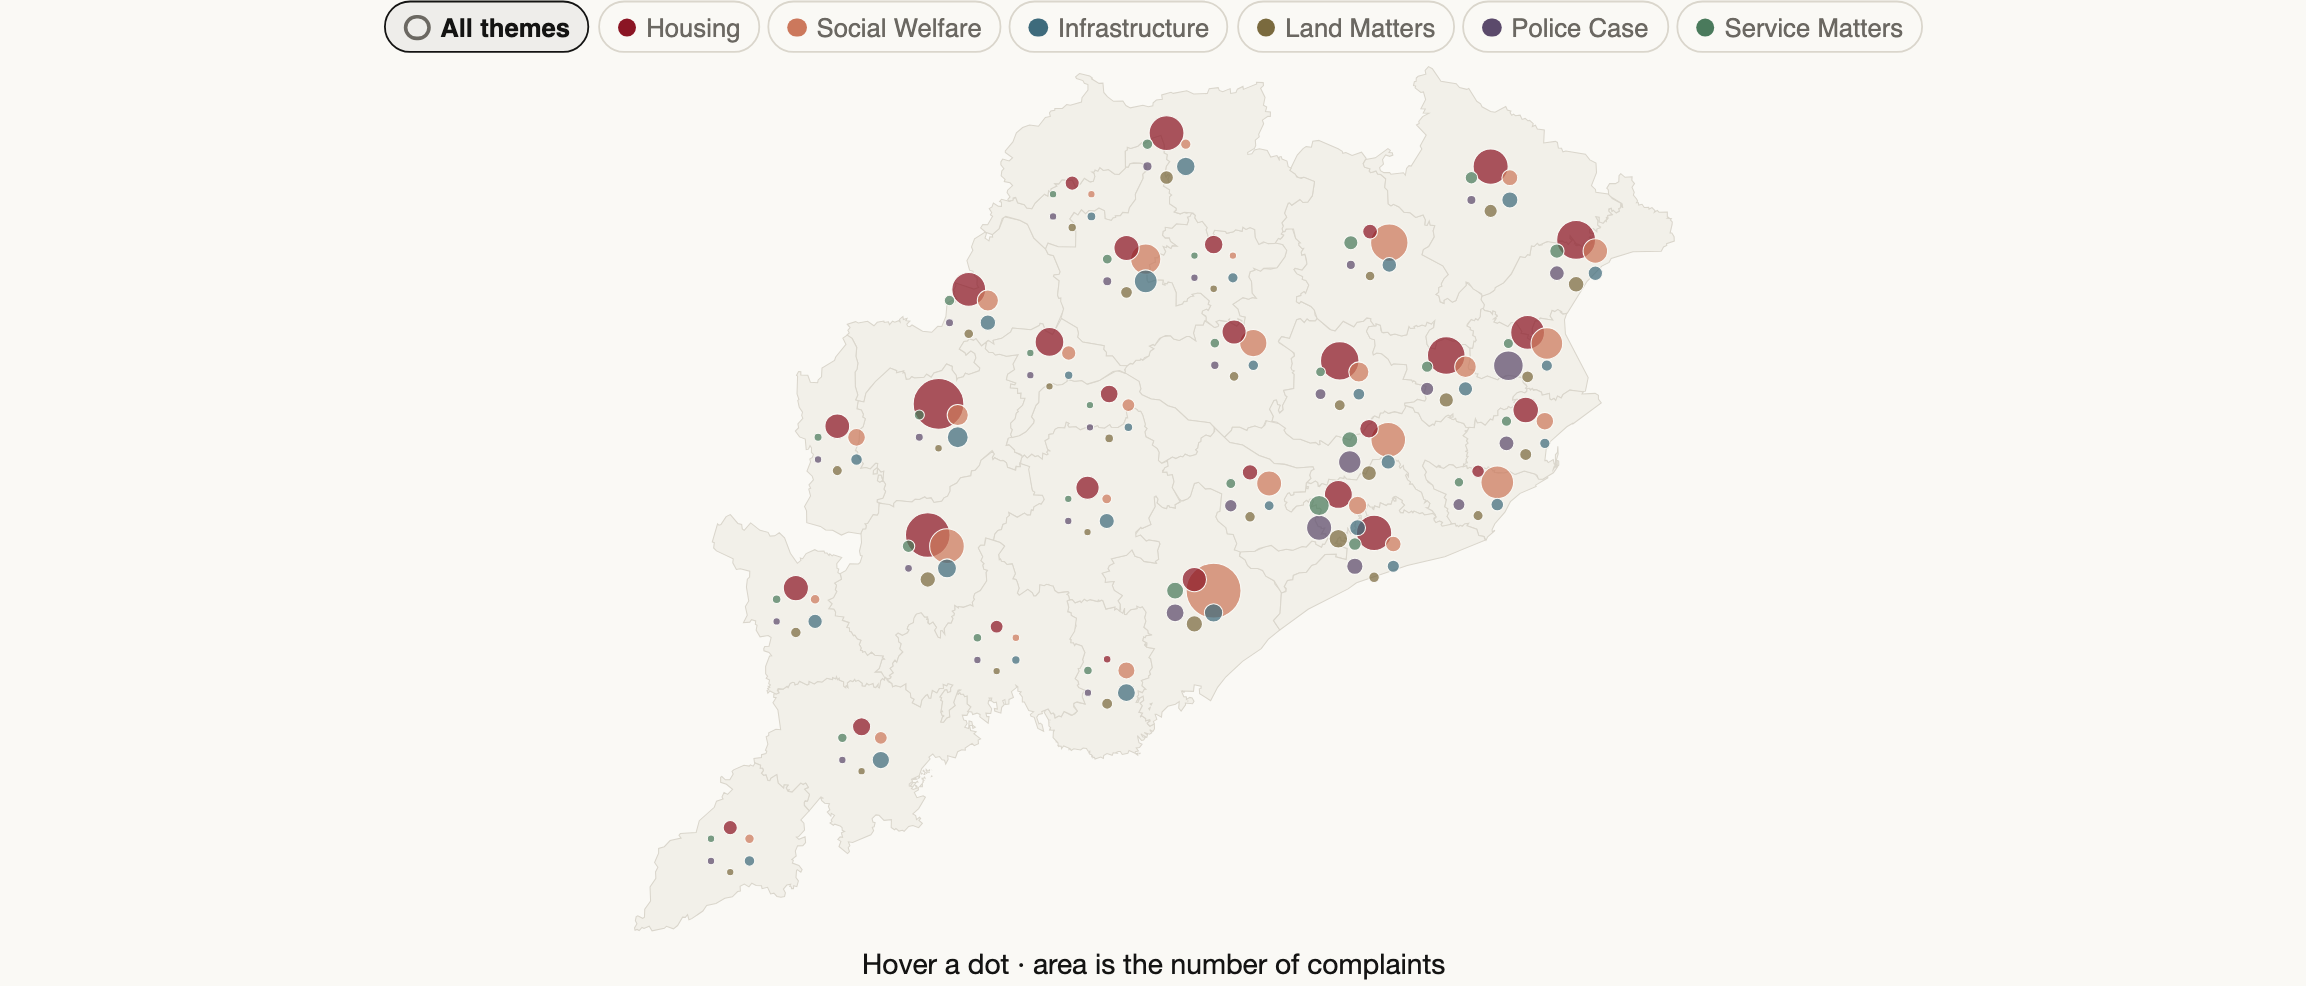
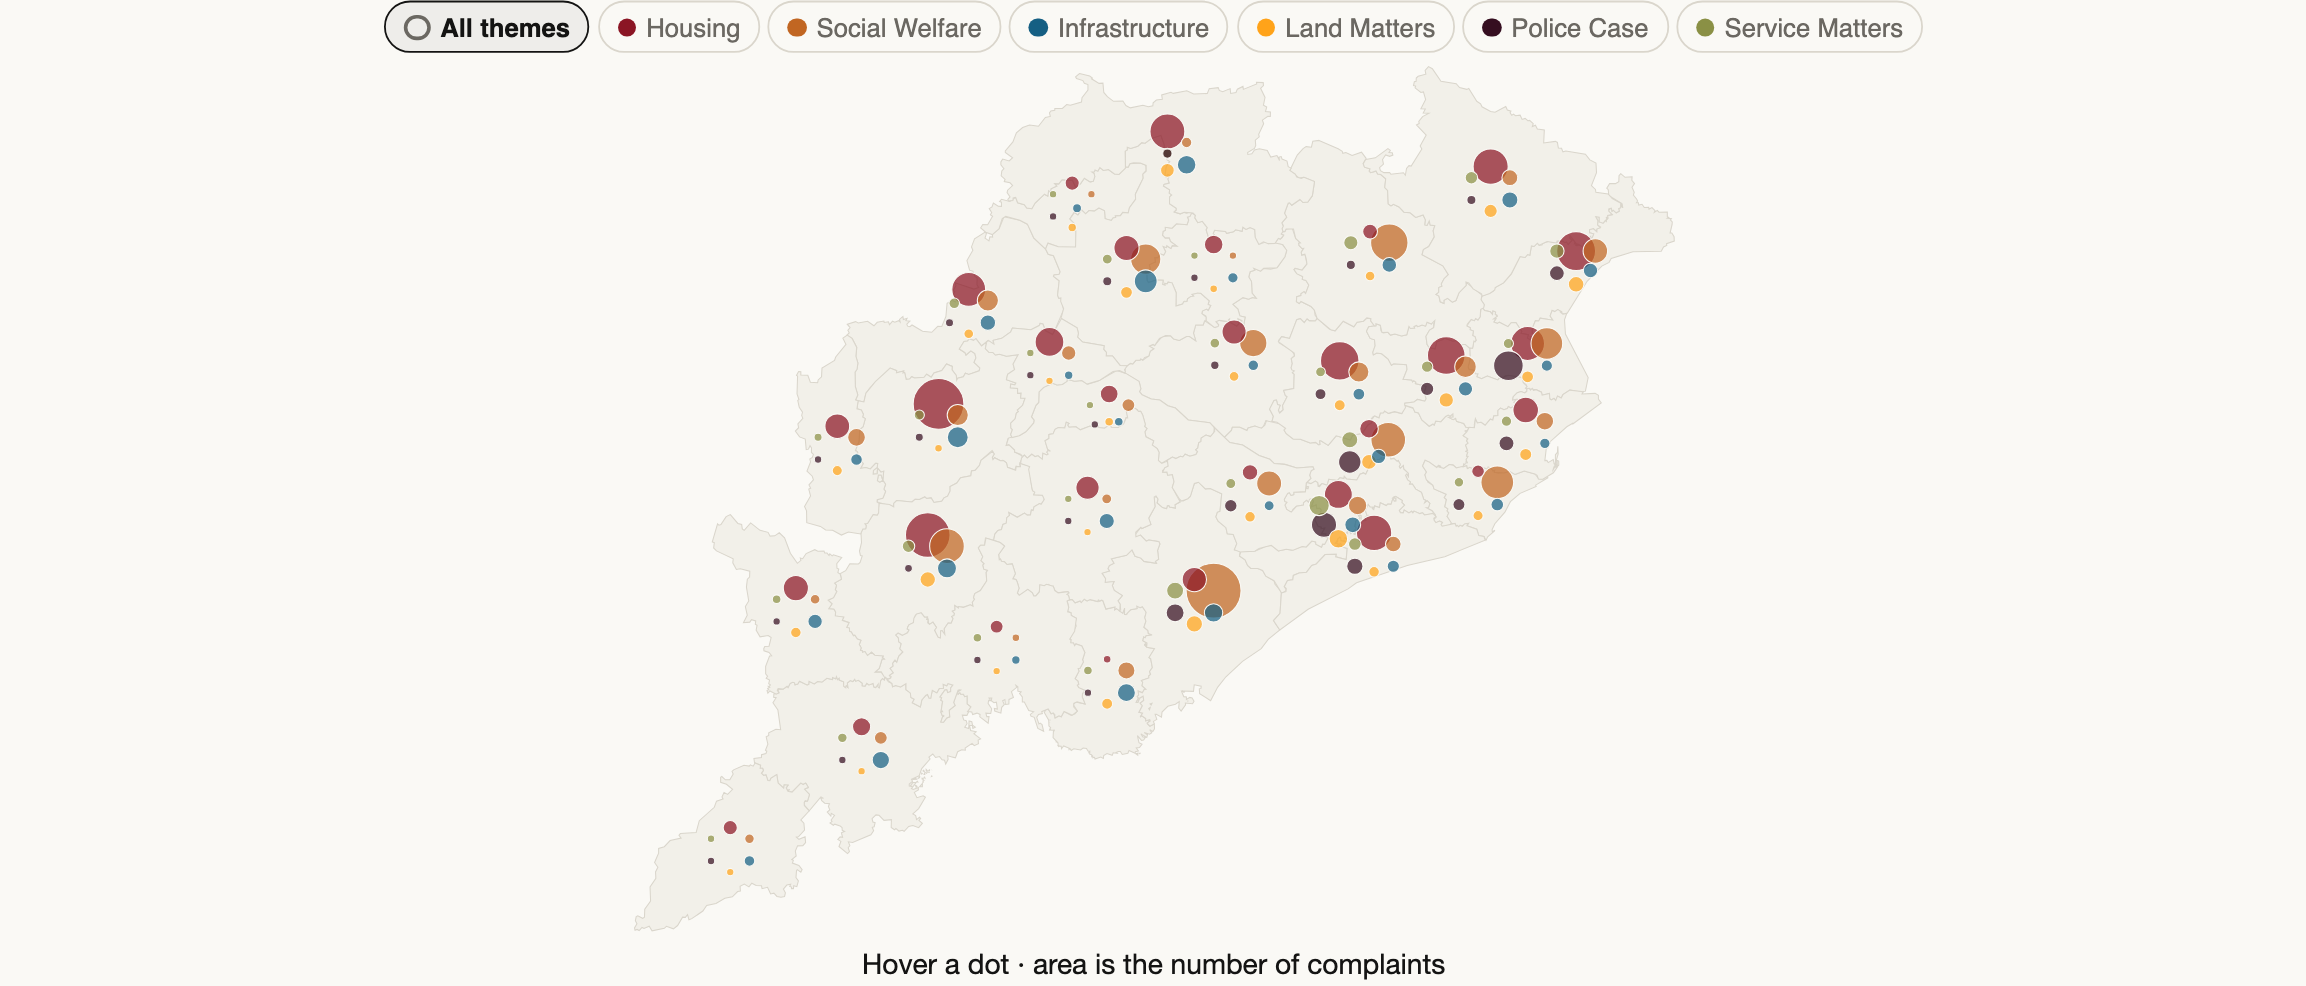
fix(deck): keep hotspot dots within district boundaries
Constrain each thematic marker to the corresponding simplified district polygon so neither the interactive map nor its static fallback attributes complaint volume to a neighbouring district. Source the chart palette from the governed DPIC branding module and use the project environment for deterministic regeneration.

diff --git a/scripts/build_deck_map.py b/scripts/build_deck_map.py
@@ -15,15 +15,16 @@ A DOT MAP, NOT A CHOROPLETH. Shading a whole district by volume answers "which
 district is big", because a populous district files more of everything. Dots
 carry two channels instead of one: colour is the theme and area is the count, so
 water and housing are separable at a glance and a district's mix is visible
-rather than averaged away. Each district gets one dot per theme, arranged on a
-small ring around its centroid.
+rather than averaged away. Each district gets one dot per theme, arranged near
+its centroid with every dot centre constrained to the district polygon.
 
-Dots are at DISTRICT centroids, which is the honest limit of the geometry we
-hold. Block would be better -- `block` is populated on 82.7% of filings across
-461 district-block pairs -- but there is no block boundary file in the repo and
-no coordinate on any table, so block dots need a public boundary download plus a
-crosswalk over 427 spellings. Until that exists a dot means "somewhere in this
-district", and the readout says the district name for exactly that reason.
+Dots are placed near DISTRICT centroids, which is the honest limit of the
+geometry we hold. Block would be better -- `block` is populated on 82.7% of
+filings across 461 district-block pairs -- but there is no block boundary file
+in the repo and no coordinate on any table, so block dots need a public boundary
+download plus a crosswalk over 427 spellings. Until that exists a dot means
+"somewhere in this district", and the readout says the district name for exactly
+that reason.
 Do not fake it by scattering dots inside the district outline: that invents a
 precision the data does not have.
 
@@ -43,20 +44,21 @@ import json
 import math
 from pathlib import Path
 
+from dpic.branding.colors import BLUE, DPIC_MAROON, GREEN, ORANGE, VIOLET, YELLOW
+
 DECK = Path("docs/presentations/2026-08-17-value-add")
 WIDTH = 1000.0
 PAD = 8.0
 
-# One colour per theme. Chosen to stay distinguishable side by side and to sit
-# in the deck's palette rather than fighting it; maroon is reserved for the
+# One centrally governed chart colour per theme. Maroon is reserved for the
 # largest single theme so the map still reads as part of this deck.
 THEME_COLOURS = {
-    "Housing": "#8B1524",
-    "Social Welfare": "#CC785C",
-    "Infrastructure": "#3E6B7C",
-    "Land Matters": "#7A6A3E",
-    "Police Case": "#5B4A6B",
-    "Service Matters": "#4A7A5C",
+    "Housing": DPIC_MAROON,
+    "Social Welfare": ORANGE,
+    "Infrastructure": BLUE,
+    "Land Matters": YELLOW,
+    "Police Case": VIOLET,
+    "Service Matters": GREEN,
 }
 # Largest dot radius in SVG units, for the biggest district-theme count in the
 # data. Everything else scales by sqrt so AREA is proportional to the count --
@@ -96,12 +98,99 @@ def _centroid(rings: list[list[list[float]]]) -> tuple[float, float]:
             # Degenerate ring (zero area) would divide by zero; fall back to the
             # mean vertex, which is fine because such a ring is a speck anyway.
             if abs(a) < 1e-12:
-                best = (sum(p[0] for p in ring) / len(ring), sum(p[1] for p in ring) / len(ring))
+                best = (
+                    sum(p[0] for p in ring) / len(ring),
+                    sum(p[1] for p in ring) / len(ring),
+                )
             else:
                 best = (cx / (6 * a), cy / (6 * a))
             best_area = abs(a)
     assert best is not None
     return best
+
+
+def _polygons(geometry: dict) -> list[list[list[list[float]]]]:
+    """Return polygons as ``[outer, hole, ...]`` ring groups."""
+    kind, coords = geometry["type"], geometry["coordinates"]
+    if kind == "Polygon":
+        return [coords]
+    if kind == "MultiPolygon":
+        return coords
+    raise ValueError(f"unsupported geometry {kind!r}")
+
+
+def _point_in_ring(point: tuple[float, float], ring: list[tuple[float, float]]) -> bool:
+    """Ray-casting containment for one projected ring."""
+    x, y = point
+    inside = False
+    for (x0, y0), (x1, y1) in zip(ring, ring[1:] + ring[:1]):
+        crosses = (y0 > y) != (y1 > y)
+        if crosses and x < (x1 - x0) * (y - y0) / (y1 - y0) + x0:
+            inside = not inside
+    return inside
+
+
+def _inside(
+    point: tuple[float, float], polygons: list[list[list[tuple[float, float]]]]
+) -> bool:
+    """Whether a projected point is inside any exterior and outside its holes."""
+    return any(
+        _point_in_ring(point, polygon[0])
+        and not any(_point_in_ring(point, hole) for hole in polygon[1:])
+        for polygon in polygons
+    )
+
+
+def _interior_anchor(
+    centre: tuple[float, float],
+    polygons: list[list[list[tuple[float, float]]]],
+) -> tuple[float, float]:
+    """Return the centroid when valid, else the nearest coarse interior point.
+
+    Area centroids can fall outside concave polygons. A small deterministic
+    grid is sufficient here because the committed district outlines are broad
+    and already simplified; it avoids adding a geometry dependency to the deck.
+    """
+    if _inside(centre, polygons):
+        return centre
+
+    candidates: list[tuple[float, float]] = []
+    for polygon in polygons:
+        outer = polygon[0]
+        xs = [point[0] for point in outer]
+        ys = [point[1] for point in outer]
+        for resolution in (16, 32, 64):
+            for ix in range(resolution):
+                x = min(xs) + (ix + 0.5) * (max(xs) - min(xs)) / resolution
+                for iy in range(resolution):
+                    y = min(ys) + (iy + 0.5) * (max(ys) - min(ys)) / resolution
+                    if _inside((x, y), [polygon]):
+                        candidates.append((x, y))
+            if candidates:
+                break
+    if not candidates:
+        raise ValueError("could not find an interior district anchor")
+    cx, cy = centre
+    return min(
+        candidates, key=lambda point: (point[0] - cx) ** 2 + (point[1] - cy) ** 2
+    )
+
+
+def _constrained_ring_point(
+    centre: tuple[float, float],
+    angle: float,
+    polygons: list[list[list[tuple[float, float]]]],
+) -> tuple[float, float]:
+    """Place a theme near the centroid without crossing district boundaries."""
+    cx, cy = centre
+    for fraction in (1.0, 0.75, 0.5, 0.25, 0.0):
+        point = (
+            cx + fraction * RING * math.cos(angle),
+            cy + fraction * RING * math.sin(angle),
+        )
+        if _inside(point, polygons):
+            return point
+    raise ValueError("district centroid is outside its projected polygon")
 
 
 def build(deck: Path) -> Path:
@@ -121,29 +210,42 @@ def build(deck: Path) -> Path:
         return (PAD + (lon - lon0) * kx * scale, height - PAD - (lat - lat0) * scale)
 
     paths, dots = [], []
-    peak = max(
-        (districts.get(f["properties"]["d"], {}).get(t, 0) for f in geo["features"] for t in themes),
-        default=1,
-    ) or 1
+    peak = (
+        max(
+            (
+                districts.get(f["properties"]["d"], {}).get(t, 0)
+                for f in geo["features"]
+                for t in themes
+            ),
+            default=1,
+        )
+        or 1
+    )
 
     for feature in sorted(geo["features"], key=lambda f: f["properties"]["d"]):
         name = feature["properties"]["d"]
         rings = _rings(feature["geometry"])
         d = []
         for ring in rings:
-            pts = [f"{x:.1f},{y:.1f}" for x, y in (project(lon, lat) for lon, lat in ring)]
+            pts = [
+                f"{x:.1f},{y:.1f}" for x, y in (project(lon, lat) for lon, lat in ring)
+            ]
             d.append("M" + "L".join(pts) + "Z")
         paths.append(f'<path class="hs-d" data-d="{name}" d="{"".join(d)}"></path>')
 
-        cx, cy = project(*_centroid(rings))
+        centroid = project(*_centroid(rings))
+        projected_polygons = [
+            [[project(lon, lat) for lon, lat in ring] for ring in polygon]
+            for polygon in _polygons(feature["geometry"])
+        ]
+        cx, cy = _interior_anchor(centroid, projected_polygons)
         entry = districts.get(name, {})
         for i, theme in enumerate(themes):
             n = entry.get(theme, 0)
             if not n:
                 continue
             angle = 2 * math.pi * i / len(themes) - math.pi / 2
-            x = cx + RING * math.cos(angle)
-            y = cy + RING * math.sin(angle)
+            x, y = _constrained_ring_point((cx, cy), angle, projected_polygons)
             r = max(R_MIN, R_MAX * math.sqrt(n / peak))
             dots.append(
                 f'<circle class="hs-dot" data-t="{theme}" data-d="{name}" data-n="{n}" '
@@ -154,7 +256,8 @@ def build(deck: Path) -> Path:
     dots.sort(key=lambda s: -float(s.split('r="')[1].split('"')[0]))
 
     chips = "".join(
-        f'<button data-t="{t}" style="--c:{THEME_COLOURS[t]}"><i></i>{t}</button>' for t in themes
+        f'<button data-t="{t}" style="--c:{THEME_COLOURS[t]}"><i></i>{t}</button>'
+        for t in themes
     )
 
     body = f"""```{{=html}}
@@ -163,10 +266,10 @@ def build(deck: Path) -> Path:
   Outlines and dot positions are projected at build time, so this needs no
   projection library, no deck.gl and no network at presentation time.
 
-  Colour is the theme, dot AREA is the count. Dots sit at district centroids,
-  which is what the geometry in the repo supports -- see the script header on
-  why they are not at block level and must not be scattered to look as if they
-  are.
+  Colour is the theme, dot AREA is the count. Dots cluster near district
+  centroids and their centres stay inside their source district -- see the
+  script header on why they are not at block level and must not be scattered
+  to look as if they are.
 -->
 <div class="hotspot fb-host" id="hotspot">
   <div class="fb"><img src="assets/fallback/hotspot.png" alt="Odisha districts with one dot per theme, sized by complaint volume"></div>

diff --git a/docs/presentations/2026-08-17-value-add/assets/README.md b/docs/presentations/2026-08-17-value-add/assets/README.md
@@ -31,8 +31,9 @@ give this talk at all.
 - [x] `hotspot_map` — **built**, as a generated dot map (`_hotspot-map.qmd`, from
       `scripts/build_deck_map.py`), over 1,132,341 real filings. One dot per
       district per theme: colour is the theme, dot *area* is the count, chips
-      filter. Dots sit at **district centroids**, which is what the geometry in
-      this repo supports. Block would be better — `block` is populated on 82.7%
+      filter. Dots cluster near **district centroids**, with every centre kept
+      inside its source district. That is what the geometry in this repo
+      supports. Block would be better — `block` is populated on 82.7%
       of filings across 461 district-block pairs — but that needs a public
       boundary download and a crosswalk over 427 spellings. **Do not scatter dots
       inside a district outline to look block-level**; it invents precision the
